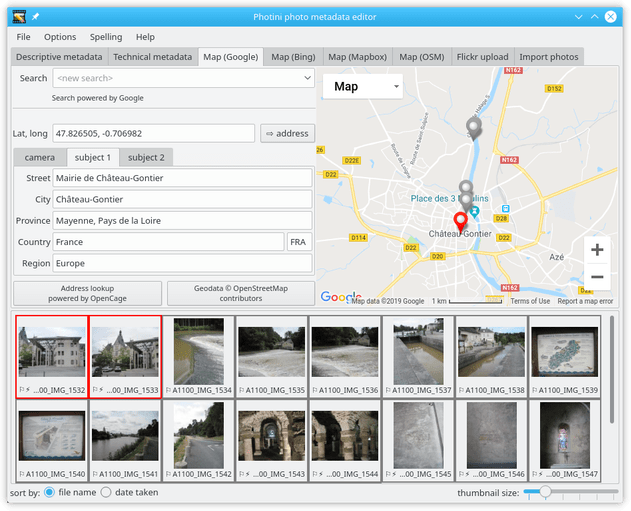
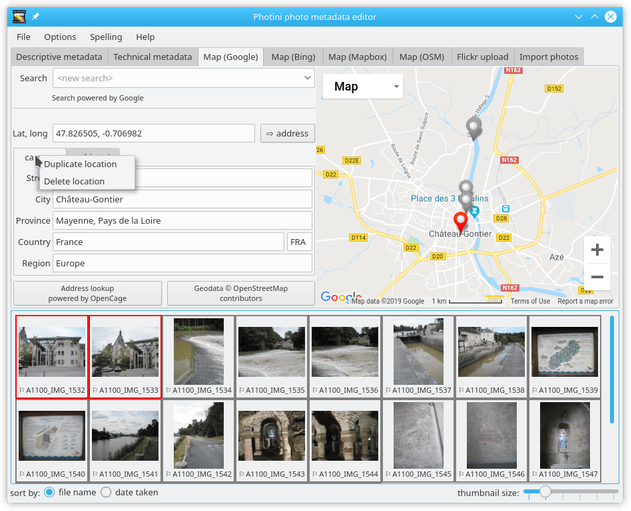
Document the location tab context menu

diff --git a/src/photini/__init__.py b/src/photini/__init__.py
@@ -1,4 +1,4 @@
 from __future__ import unicode_literals
 
 __version__ = '2019.5.0'
-build = '1226 (69bde88)'
+build = '1227 (c732cf3)'

diff --git a/src/doc/manual/map.rst b/src/doc/manual/map.rst
@@ -103,9 +103,15 @@ It is usually necessary to edit the address quite a lot.
 
 .. image:: ../images/screenshot_143.png
 
-To set a ``subject`` location select the ``subject 1`` tab before doing an address lookup.
+Right-clicking on a location tab displays a context menu that allows the tab to be copied to a new tab or deleted.
+Copying the ``camera`` location is an easy way to initialise a ``subject`` location.
 (An empty ``subject 2`` tab is immediately created, in case the photograph has more than one subject.)
-In this case the address lookup provides the right town, but I changed the ``street`` to the subject of the photograph rather than where I was standing.
+
+.. image:: ../images/screenshot_144.png
+
+In this case most of the data is the same, but I changed the ``street`` to the subject of the photograph rather than where I was standing.
+
+.. image:: ../images/screenshot_145.png
 
 To reorder the subject locations, or to convert between camera and subject, you can drag any of the tabs to another position.
 If this results in the rightmost tab having data then another tab will be added.
